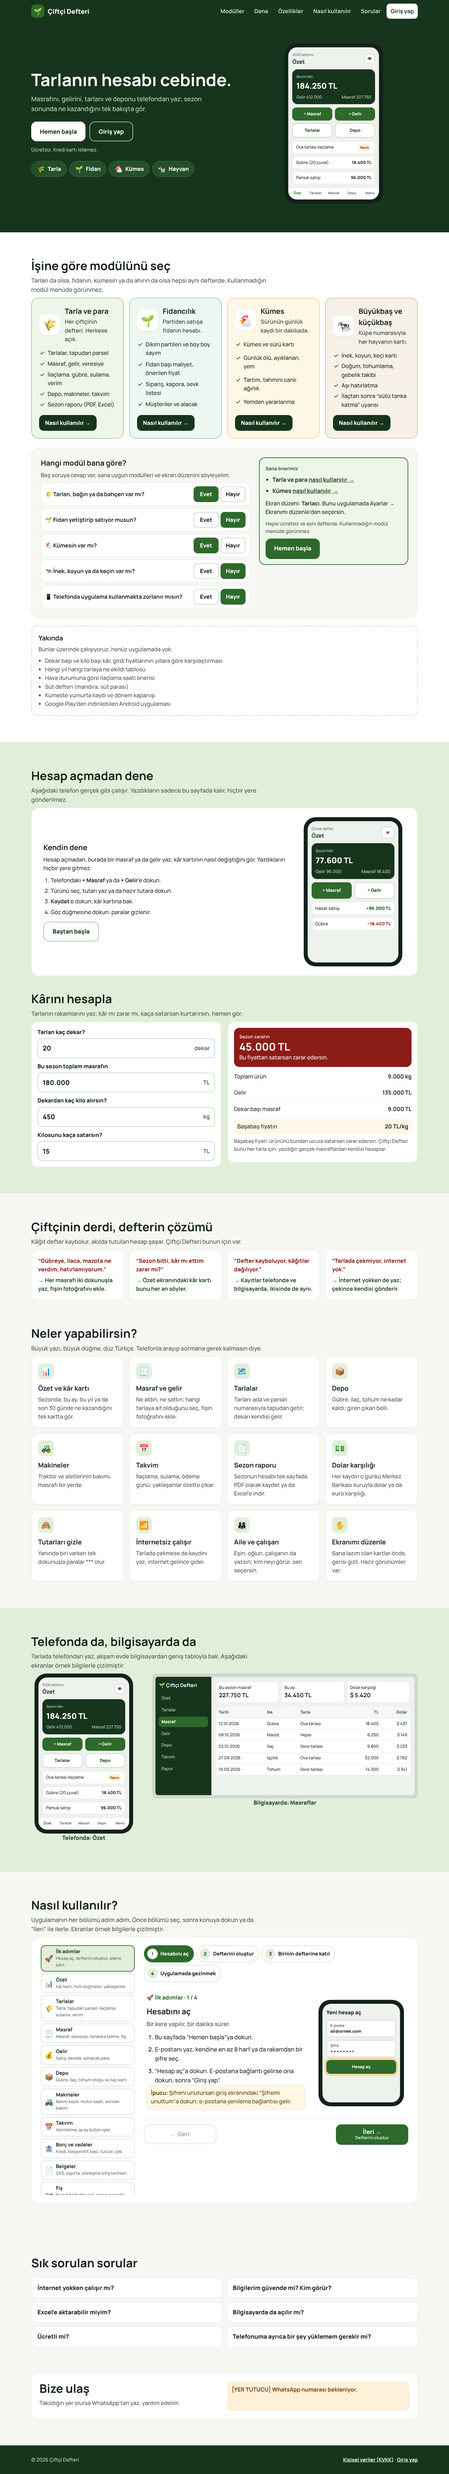
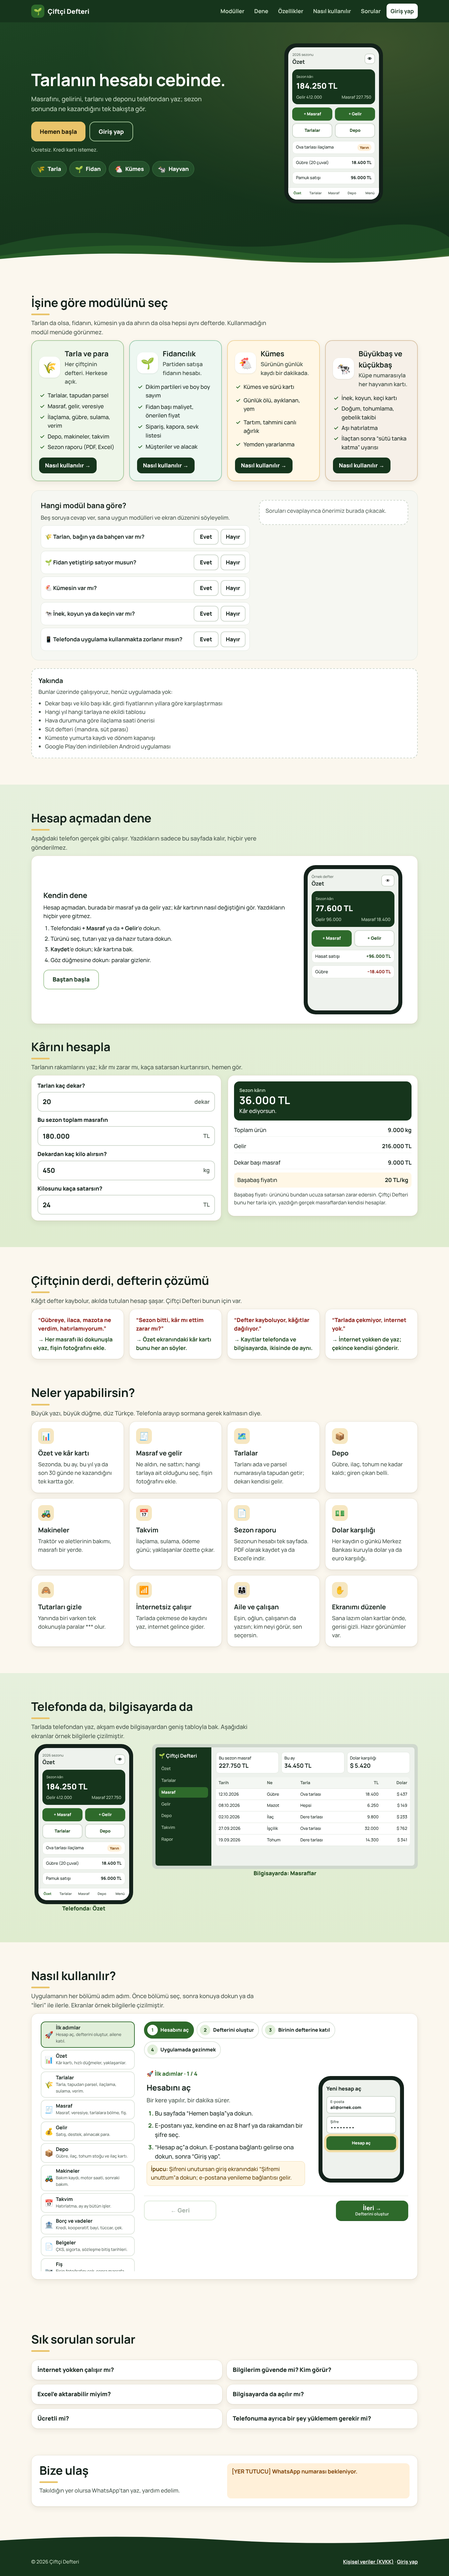
tanitim: renk paleti, tarla arka plani, dalga ayraclar, kart/dugme duzeni
Claude-Session: https://claude.ai/code/session_01Uc4K9ZYdhHxQncxStdyhs4

diff --git a/dayibasi/app/tanitim/tanitim.css b/dayibasi/app/tanitim/tanitim.css
@@ -304,3 +304,34 @@ button.tn-btn:disabled { opacity: .4; cursor: default; }
   .dn { grid-template-columns: 1fr 320px; padding: 28px 36px; gap: 40px; }
   .ms { grid-template-columns: 1.4fr 1fr; padding: 28px; gap: 28px; }
 }
+
+/* === Görsel düzen (10 Kasım 2026): buğday/toprak/krem paleti, tarla arka planı, dalga ayraçlar === */
+.tn { --yesil-k: #16351c; --yesil: #2e6a2b; --bugday: #e9c46a; --bugday-a: #f6e7c1; --toprak: #7a4a1f; --krem: #fbf7ee; --kart-g: 0 1px 2px rgba(40,35,20,.06), 0 6px 18px rgba(40,35,20,.07); background: var(--krem); }
+.tn h2 { letter-spacing: -0.01em; color: #13211a; }
+.tn h2::after { content: ""; display: block; width: 56px; height: 5px; border-radius: 3px; background: var(--bugday); margin-top: 12px; }
+.tn-kahraman { position: relative; background: url(/tanitim/tarla.svg) bottom center / 100% 200px no-repeat, radial-gradient(ellipse at 85% 10%, rgba(233,196,106,.16), transparent 55%), linear-gradient(170deg, #1d4423 0%, #16351c 60%, #12301a 100%); padding-bottom: 150px; }
+.tn-kahraman::after { content: ""; position: absolute; left: 0; right: 0; bottom: -1px; height: 44px; background: url(/tanitim/dalga-krem.svg) center / 100% 100% no-repeat; }
+.tn-kahraman h1 { letter-spacing: -0.015em; }
+.tn-kahraman .tn-btn.ana { background: var(--bugday); color: #1f1a08; }
+.tn-kahraman .tn-btn.ana:hover { background: #f1d283; }
+.tn-moduller { background: var(--krem); border-bottom: 0; }
+.tn-gorunum { background: linear-gradient(180deg, #e6f0dd, #dfeccf); }
+.tn-kart, .tn-dert > div, .tn-sss details, .tn-iletisim, .kh-form, .kh-sonuc, .dn, .nk { border-color: #e6e0d0; border-radius: 20px; box-shadow: var(--kart-g); }
+.tn-kart .ik { background: var(--bugday-a); }
+.tn-mk { box-shadow: var(--kart-g); transition: transform .15s ease, box-shadow .15s ease; }
+.tn-mk:hover { transform: translateY(-2px); box-shadow: 0 2px 4px rgba(40,35,20,.08), 0 12px 28px rgba(40,35,20,.10); }
+.tn-ilksezon { background: linear-gradient(120deg, #16351c, #245a2a); border-left: 6px solid var(--bugday); }
+.tn-paket .tn-kart.one { border-color: var(--yesil); box-shadow: 0 0 0 4px var(--bugday-a), var(--kart-g); }
+.tn-btn { transition: background-color .15s ease, transform .15s ease, box-shadow .15s ease; }
+.tn-btn.ana:hover { background: #245622; }
+.tn-btn.acik:hover, .tn-btn.cizgi2:hover { background: var(--bugday-a); }
+.tn-btn.cizgi:hover { background: rgba(255,255,255,.1); border-color: var(--bugday); }
+.tn-btn:active { transform: translateY(1px); }
+.tn a:focus-visible, .tn button:focus-visible, .tn summary:focus-visible, .tn input:focus-visible { outline: 3px solid var(--bugday); outline-offset: 3px; box-shadow: 0 0 0 6px var(--yesil-k); }
+.tn-mk .git:hover { background: var(--yesil); }
+.tn-ust nav a.giris:hover { background: var(--bugday); color: #1f1a08; }
+.tn-hmodul a:hover { border-color: var(--bugday); }
+.tn-alt { position: relative; margin-top: 44px; }
+.tn-alt::before { content: ""; position: absolute; left: 0; right: 0; top: -43px; height: 44px; background: url(/tanitim/dalga-yesil.svg) center / 100% 100% no-repeat; }
+@media (min-width: 1024px) { .tn-kahraman { padding-bottom: 200px; background-size: 100% 260px, auto, auto; } .tn-kahraman::after { height: 64px; } }
+@media (prefers-reduced-motion: reduce) { .tn-btn, .tn-mk { transition: none; } .tn-mk:hover, .tn-btn:active { transform: none; } }

diff --git a/dayibasi/docs/moduller/tanitim.md b/dayibasi/docs/moduller/tanitim.md
@@ -17,6 +17,7 @@
 - 4 Kasım 2026: **Site taslağı yapıldı** (`modul/tanitim` dalı, canlı ana sayfa değişmedi): `app/tanitim/page.tsx` + `tanitim.css` → adres `/tanitim`. Arama motoruna kapalı (noindex). Bölümler: giriş cümlesi + "Ücretsiz başla"/"Giriş yap" (ikisi de /ciftci), dert → çözüm, 12 özellik, telefon (Özet) ve bilgisayar (Masraflar) temsili çizimi (örnek rakamlar, HTML/CSS), bölümler/modüller + "Yakında", paketler [taslak], sık sorulan sorular, iletişim [YER TUTUCU], alt bilgi (/kvkk).
 - Görüntüler: `docs/tasarim/tanitim-390.png`, `tanitim-320.png`, `tanitim-1366.png`. Yatay taşma yok, konsol hatası yok.
 - "Yakında" diye işaretlenenler (uygulamada yok): dekar/kilo başı kâr ve girdi fiyat geçmişi, tarla × yıl ekim tablosu, ilaçlama saati, süt defteri, kümeste yumurta ve dönem kapanışı, Google Play uygulaması.
+- 10 Kasım 2026: **Görsel düzen**: buğday/toprak/krem tamamlayıcı palet (koyu yeşil korunarak), girişte gradyan + tepe/tarla sırası SVG arka planı (`public/tanitim/tarla.svg`), dalga ayraçlar (giriş altı, alt bilgi üstü), tutarlı kart gölge/köşeleri, düğme hover/odak (buğday odak halkası), başlık altı buğday çizgisi. Metin değişmedi. Görüntüler yenilendi.
 
 - 10 Kasım 2026: "Nasıl kullanılır" tıklanabilir rehber (6 adım + telefona ekleme, Android/iPhone; `app/tanitim/NasilKullanilir.tsx`), paylaşım görseli (`app/tanitim/opengraph-image.png`), WhatsApp düğmesi (numara bekleniyor: `page.tsx` `WA_NUMARA`). Giriş ekranı yenilendi (`core/auth/AuthGate.tsx` + `core/ui/ui.css`, Mustafa istedi); `?kayit=1` doğrudan "Yeni hesap aç" açar, "Hemen başla" buraya bağlı.
 
